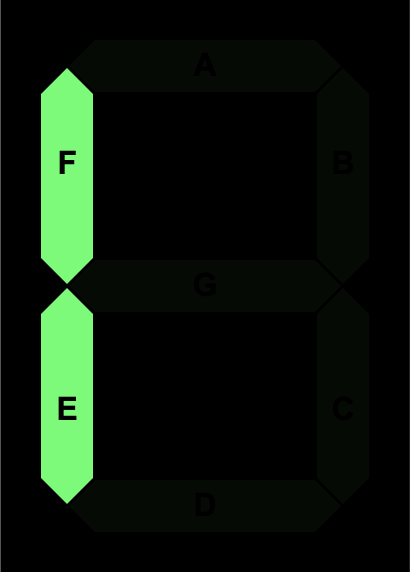
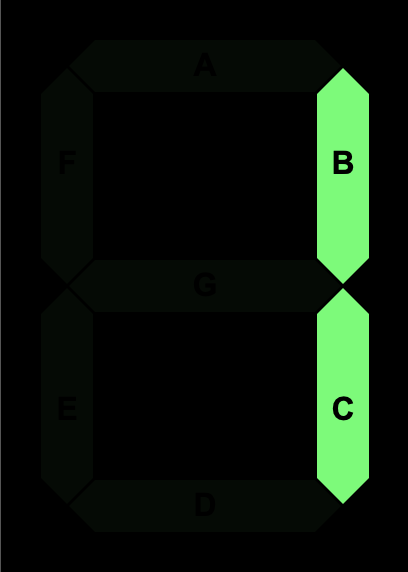
Added logic for unsigned numeric display representation

Changed region(s): [[0.0882, 0.1189, 0.2353, 0.8916], [0.7647, 0.1189, 0.9118, 0.8916]]

diff --git a/src/visuals/SevenSegDisplay.java b/src/visuals/SevenSegDisplay.java
@@ -23,6 +23,7 @@ public class SevenSegDisplay extends JPanel {
 	private JLabel bLabel;
 	private JLabel cLabel;
 	private JLabel dLabel;
+	private JLabel[] arr;
 
 	private static ImageIcon iconZero;
 	private static ImageIcon iconOne;
@@ -104,12 +105,71 @@ public class SevenSegDisplay extends JPanel {
 		c.gridy = 0;
 		this.dLabel = new JLabel(iconZero);
 		this.add(this.dLabel, c);
-		
+
+		arr = new JLabel[5];
+		arr[1] = dLabel;
+		arr[2] = cLabel;
+		arr[3] = bLabel;
+		arr[4] = aLabel;
 		loadVal(val, twosComplement);
 	}
 
-	private void loadVal(byte val, boolean twosComplement) {
-		// TODO Auto-generated method stub
-		
+	private void setImage(int position, int val) {
+		if (val == 1) {
+			arr[position].setIcon(iconOne);
+		} else if (val == 2) {
+			arr[position].setIcon(iconTwo);
+
+		} else if (val == 3) {
+			arr[position].setIcon(iconThree);
+
+		} else if (val == 4) {
+			arr[position].setIcon(iconFour);
+
+		} else if (val == 5) {
+			arr[position].setIcon(iconFive);
+
+		} else if (val == 6) {
+			arr[position].setIcon(iconSix);
+
+		} else if (val == 7) {
+			arr[position].setIcon(iconSeven);
+
+		} else if (val == 8) {
+			arr[position].setIcon(iconEight);
+
+		} else if (val == 9) {
+			arr[position].setIcon(iconNine);
+
+		} else if (val == 0) {
+			arr[position].setIcon(iconZero);
+
+		} else if (val == -1) {
+			arr[position].setIcon(iconNegative);
+
+		}
+	}
+
+	public void loadVal(byte val, boolean twosComplement) {
+		if (!twosComplement) {
+			int unsignedVal = 0b11111111 & val;
+
+			// Compute ones position
+			int onesPos = unsignedVal % 10;
+			setImage(1, onesPos);
+			
+			// Compute tens position
+			int tensPos = (unsignedVal%100) / 10;
+			setImage(2, tensPos);
+			
+			// Compute hundreds position
+			int hundredsPos = (unsignedVal%1000) / 100;
+			setImage(3, hundredsPos);
+			
+			// Unsigned, so leave the last image as a 0
+			setImage(4, 0);
+			return;
+		}
+
 	}
 }

diff --git a/src/visuals/View.java b/src/visuals/View.java
@@ -51,10 +51,10 @@ public class View extends JPanel
 		this.setLayout(new GridBagLayout());
 		c = new GridBagConstraints();
 		c.fill = GridBagConstraints.VERTICAL;
-	
 
 		// Add the SAP View Widget (Middle part)
-		this.viewWidget = new SAPViewWidget(this.model);
+		this.disp = new SevenSegDisplay(this.model.getOut().getVal(), false); // TODO
+		this.viewWidget = new SAPViewWidget(this.model, disp);
 		c.gridx = 1;
 		c.gridy = 0;
 		c.gridheight = 10;
@@ -81,7 +81,7 @@ public class View extends JPanel
 		c.gridx = 3;
 		c.gridy = 1;
 		c.gridheight = 1;
-	
+
 		this.add(resetButton, c);
 		// Add toggle clock button
 		c.gridx = 3;
@@ -152,7 +152,6 @@ public class View extends JPanel
 		c.ipady = 0;
 		c.gridx = 3;
 		c.gridy = 7;
-		this.disp = new SevenSegDisplay((byte)5,true); //TODO
 		this.add(this.disp, c);
 
 		// Add the view as a log observer
@@ -180,7 +179,7 @@ public class View extends JPanel
 				bRunner.terminate();
 				bRunner = null;
 			}
-			
+
 			sap.Clock.getClock().toggleClock();
 		} else if (e.getActionCommand().contentEquals("autoplay")) {
 			if (isAutoRunning) {
@@ -214,7 +213,7 @@ public class View extends JPanel
 			bRunner.start();
 		}
 	}
-	
+
 	public boolean getIsAutoRunning() {
 		return this.isAutoRunning;
 	}

diff --git a/src/visuals/SAPViewWidget.java b/src/visuals/SAPViewWidget.java
@@ -44,6 +44,7 @@ public class SAPViewWidget extends JPanel implements SAPObserver {
 	private JButton[] busBits;
 	private JButton cFlag;
 	private JButton zFlag;
+	private SevenSegDisplay display;
 
 	// Constants
 	private static final Dimension BUTTON_SIZE = new Dimension(20, 20);
@@ -53,9 +54,10 @@ public class SAPViewWidget extends JPanel implements SAPObserver {
 	private static final Color COLOR_BACKGROUND = new Color(203,246,245);
 	private static final Color WIDGET_BORDER_COLOR = Color.BLACK;
 
-	public SAPViewWidget(sap.SAPModel model) {
+	public SAPViewWidget(sap.SAPModel model, SevenSegDisplay display) {
 		// Encapsulate the model
 		this.model = model;
+		this.display = display;
 		this.setBorder(BorderFactory.createLineBorder(WIDGET_BORDER_COLOR));
 
 		// Add ourselves as a model observer
@@ -388,6 +390,7 @@ public class SAPViewWidget extends JPanel implements SAPObserver {
 		for (int i = 0; i <= 7; i++) {
 			outBits[i].setText(decodeRegister(RegisterType.OUT, 7 - i));
 		}
+		this.display.loadVal(newVal,false);
 	}
 
 	@Override
